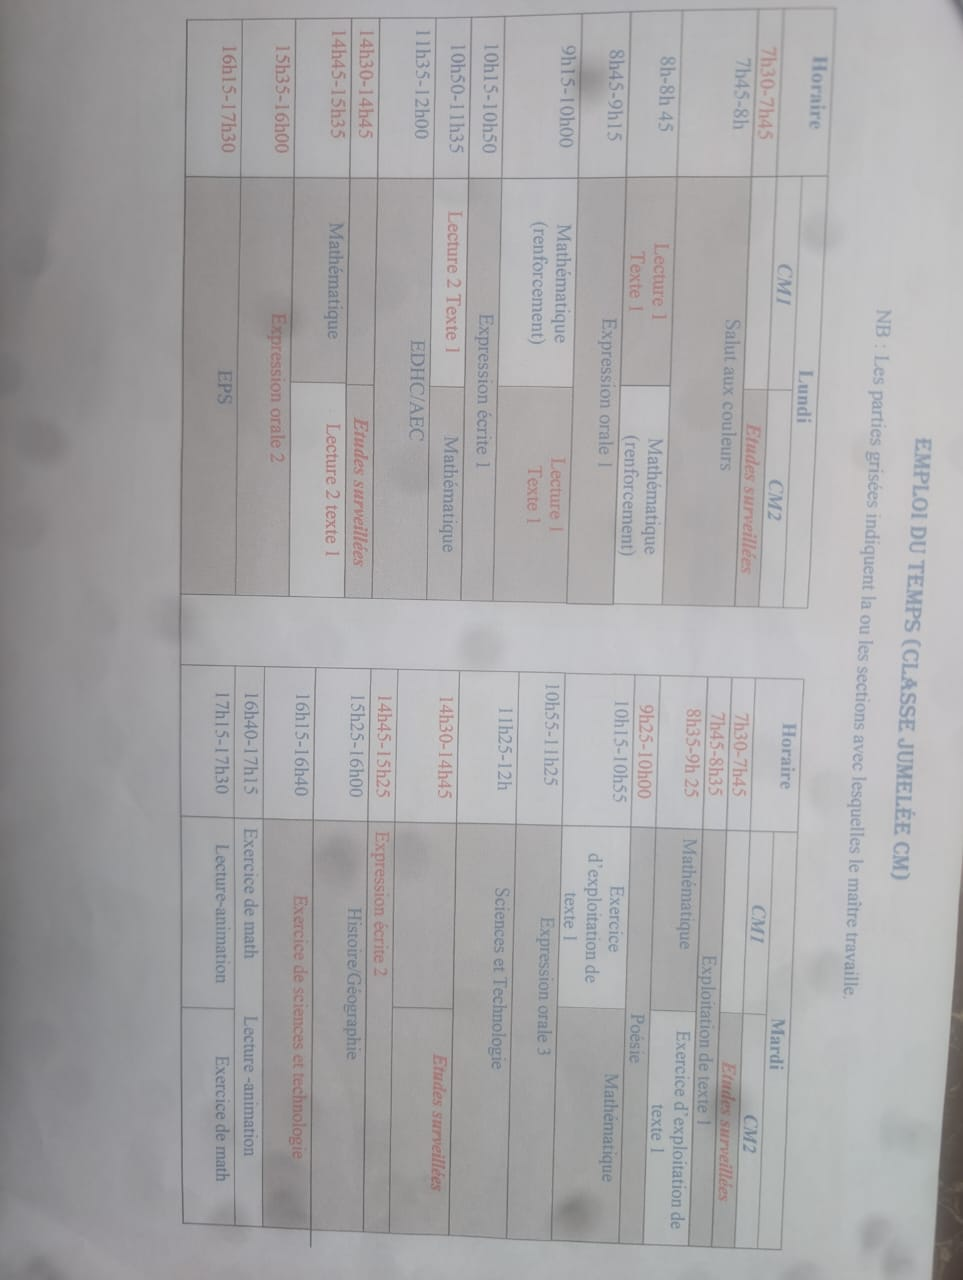
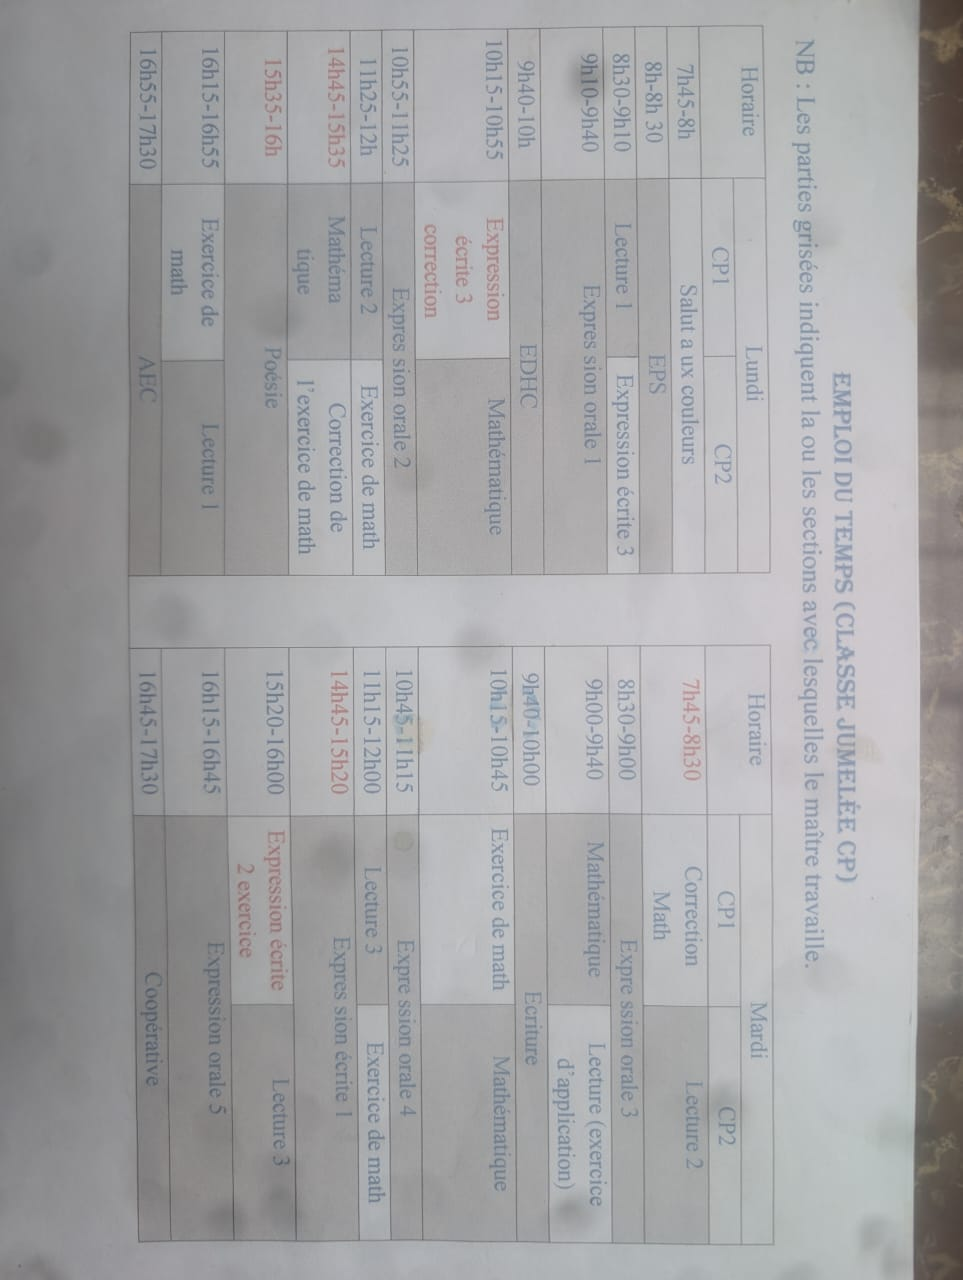
LOTS OF WORKS spé.techs et implémentations commit at wworking day with Yanis

diff --git a/TODOs/appointments_management.md b/TODOs/appointments_management.md
@@ -1,0 +1,91 @@
+# Spécification Technique : Gestion des Rendez-vous et Convocations Parent-Professeur
+
+## 1. Objectifs de la Fonctionnalité
+
+Ce module unifie deux besoins fondamentaux de communication bilatérale au sein de l'école :
+1. **Demande de rendez-vous (Parent → Enseignant) :** Permettre à un parent de solliciter une entrevue avec un professeur en proposant une ou plusieurs dates/heures.
+2. **Convocation / Sollicitation (Enseignant → Parent) :** Permettre à un enseignant de demander une rencontre avec un parent, que ce soit pour une simple demande de rendez-vous de routine ou une convocation (urgente, disciplinaire, suivi).
+
+**Lignes directrices :**
+- L'approche n'est pas basée sur un calendrier de réservation en "clic-rapide" (pas de créneaux pré-définis libres comme Doctolib), mais sur un **système de proposition/acceptation** plus souple.
+- Le format de la rencontre (Visioconférence ou Présentiel) est négociable. Le demandeur peut en imposer un, ou proposer les deux au choix.
+- L'intitulé (statut) de la rencontre est modifiable à la volée pour s'adapter à la gravité ou au but du rendez-vous.
+
+---
+
+## 2. Modèle de Données (Base de Données)
+
+Pour garder l'historique et les spécificités des rencontres privées, un nouveau modèle `Appointment` (distinct de `Event`) doit être créé dans MongoDB (`app/api/_/models/ai/Appointment.js`).
+
+### Schéma `Appointment`
+*   `initiatorId` : String (clerkId de la personne qui initie la demande).
+*   `initiatorRole` : String (`'parent'` ou `'prof'`).
+*   `recipientId` : String (clerkId du destinataire).
+*   `studentId` : ObjectId (Référence à l'élève, indispensable pour contextualiser la rencontre).
+*   `title` : String (Titre ou motif court).
+*   `statusLabel` : String. Définit la nature de l'entrevue (ex: *"Demande de rdv"*, *"Convocation"*, *"Information urgente"*). L'UI proposera des choix par défaut mais permettra la saisie libre.
+*   `meetingStatus` : Enum (`'PENDING'`, `'ACCEPTED'`, `'REJECTED'`, `'CANCELED'`, `'COMPLETED'`). Par défaut `'PENDING'`.
+*   `proposedDates` : Array d'objets `{ startDate, endDate }`. Permet à l'initiateur de proposer un ou plusieurs créneaux.
+*   `agreedDate` : Objet `{ startDate, endDate }` ou `null`. C'est la date finale validée.
+*   `meetingFormatOptions` : Array of Strings (`['PRESENTIAL']`, `['VISIO']`, ou `['PRESENTIAL', 'VISIO']`).
+*   `agreedFormat` : String (`'PRESENTIAL'` ou `'VISIO'`) ou `null`. Format final validé.
+*   `visioRoomName` : String (Nom de la salle Jitsi généré automatiquement si `'VISIO'` est choisi).
+*   `message` : String (Description détaillée ou motif de la demande).
+*   `createdAt`, `updatedAt` : Date.
+
+---
+
+## 3. Interface Utilisateur (UI/UX) et Flux
+
+### A. Phase 1 : Initialisation de la demande
+1. **Accès :** 
+   - Pour un parent : Sur la page de profil du professeur ou dans la section équipe pédagogique de la classe, bouton **"Demander un RDV"**.
+   - Pour un prof : Sur la page profil de l'élève ou l'annuaire parent, bouton **"Solliciter un RDV / Convoquer"**.
+2. **Le Formulaire (Modal) :**
+   - **Type de demande (statusLabel) :** Menu déroulant (Demande, Convocation...) avec champ texte "Autre" pour saisie libre.
+   - **Date(s) proposée(s) :** Sélecteur de date/heure (possibilité d'ajouter plusieurs choix `+ Ajouter une alternative`).
+   - **Format proposé :** Cases à cocher pour "Présentiel", "Visio" (ou les deux cochés si on laisse le choix).
+   - **Motif / Message :** Zone de texte libre.
+
+### B. Phase 2 : Réception et Négociation/Validation
+1. Le destinataire reçoit une notification sur son Dashboard (et potentiellement Mail/SMS).
+2. En cliquant sur la notification, une carte de rendez-vous en attente s'affiche.
+3. **Actions possibles :**
+   - Si plusieurs dates/formats étaient proposés, le destinataire DOIT sélectionner un choix avant de cliquer sur **"Accepter"**.
+   - Si une seule date/format était proposé, il clique simplement sur **"Accepter"**.
+   - Il peut aussi cliquer sur **"Refuser"** (avec possibilité de laisser un message d'annulation).
+4. Lors de l'acceptation :
+   - `meetingStatus` passe à `'ACCEPTED'`.
+   - `agreedDate` et `agreedFormat` sont renseignés.
+   - Si `VISIO`, `visioRoomName` est généré.
+
+### C. Phase 3 : Finalisation et Tenue du Rendez-vous
+1. **Intégration Emploi du Temps :** Le rendez-vous accepté s'insère dynamiquement dans le composant d'Emploi du temps agrégé de l'enseignant (Spécification *Teacher Schedule*).
+2. **Module Visio :** À l'heure prévue, si le format est `VISIO`, un bouton "Rejoindre la visio" apparaît sur la carte du rendez-vous, s'appuyant sur l'infrastructure Jitsi/Cloudinary définie dans la spécification *Visioconférence*.
+
+---
+
+## 4. Système de Notifications
+*   **Tableau de bord (In-App) :** Présence d'un badge (ex: cloche) ou section dédiée sur la page d'accueil pour lister les "Demandes en attente" et "Prochains Rendez-vous".
+*   **Alerte Externe :** Option d'envoi d'un **SMS** ou **Email** selon les préférences du destinataire pour l'avertir d'une nouvelle demande, confirmation, ou annulation. Utile surtout pour les *"Convocations urgentes"*.
+
+---
+
+## 5. Étapes d'Implémentation Recommandées
+
+1. **Backend / Base de Données :**
+   - Créer le modèle MongoDB `Appointment`.
+   - Développer les routes API CRUD sous `/api/appointments/`.
+     - `POST` pour la création initiale (`PENDING`).
+     - `GET` pour récupérer la liste des requêtes envoyées/reçues par l'utilisateur connecté.
+     - `PATCH` pour l'acceptation (choix final de la date/format) ou le refus.
+
+2. **Frontend - Formulaire de Création :**
+   - Créer le composant React (ex: `AppointmentRequestModal`) gérant l'UX asynchrone (label personnalisé, gestion des dates multiples, formats).
+
+3. **Frontend - Centre de Gestion des RDVs :**
+   - Créer un widget ou onglet pour le Dashboard (Parents et Profs) affichant les cartes `AppointmentCard` avec les états (En attente de réponse, Confirmé, Refusé).
+
+4. **Intégration Transversale :**
+   - Relier la route de récupération de l'emploi du temps enseignant (`GET /api/schedules/teacher/:profId`) à la collection `Appointment` pour afficher les RDVs confirmés de la journée.
+   - Relier le bouton de visio au module global d'appels vidéo.

diff --git a/TODOs/school_blog.md b/TODOs/school_blog.md
@@ -1,0 +1,94 @@
+# Spécification Technique : Blog de l'École (Journal Scolaire)
+
+## 1. Objectifs de la Fonctionnalité
+
+L'objectif est de doter l'école d'un véritable journal scolaire numérique. Contrairement au flux d'actualité ("Unified Feed" de la page d'accueil et des groupes) qui est axé sur de la communication descendante et brève (micro-blogging, annonces, sondages), le **Blog de l'École** est axé sur la **création de contenu riche**.
+
+Ses particularités :
+- **Ouverture totale :** TOUS les acteurs de l'école (élèves, parents, professeurs, administration) peuvent créer et soumettre des articles.
+- **Format Éditorial :** Textes longs, mise en page riche (gras, puces, liens), images de couverture, tags.
+- **Sécurité et Modération :** Pour prévenir tout contenu inapproprié ou fautes d'orthographe majeures sur un espace public, le contenu produit par les élèves et les parents est soumis à un processus de validation (modération) avant publication.
+
+---
+
+## 2. Modèle de Données (Base de Données)
+
+Création d'un nouveau modèle MongoDB `Article` (ex: `app/api/_/models/ai/Article.js`), totalement distinct du modèle `Post`.
+
+### Schéma `Article`
+*   `title` : String (Titre principal de l'article).
+*   `content` : String (Contenu de l'article, stocké en HTML ou Markdown).
+*   `coverImage` : String (URL Cloudinary optionnelle de l'image de couverture).
+*   `authorId` : String (clerkId de l'auteur).
+*   `authorName` : String.
+*   `authorRole` : String (`'admin'`, `'prof'`, `'eleve'`, `'parent'`). Permet d'afficher un badge à côté du nom.
+*   `status` : Enum (`'DRAFT'`, `'PENDING_REVIEW'`, `'PUBLISHED'`, `'REJECTED'`). 
+*   `tags` : Array of Strings (Catégories : ex: *"Sortie scolaire"*, *"Science"*, *"Opinion"*).
+*   `publishedAt` : Date (Date de parution effective, null si non publié).
+*   `createdAt`, `updatedAt` : Date.
+
+---
+
+## 3. Workflow de Publication et Modération
+
+Pour garantir la qualité et la sécurité du contenu affiché à toute l'école :
+
+1. **Création par un Professeur ou Administrateur :**
+   - Peut sauvegarder en brouillon (`DRAFT`).
+   - Peut publier directement sans validation (`PUBLISHED`).
+
+2. **Création par un Élève ou un Parent :**
+   - Peut sauvegarder en brouillon (`DRAFT`).
+   - S'il clique sur "Soumettre", l'article passe en `PENDING_REVIEW`. Il n'est pas encore visible sur le blog public.
+   - Les professeurs et administrateurs reçoivent une notification / voient un badge "Articles à valider".
+
+3. **La Modération (Interface Staff) :**
+   - Un enseignant/admin lit l'article en attente.
+   - Il a 3 options :
+     - **Approuver :** Le statut passe à `PUBLISHED`.
+     - **Modifier :** Le modérateur peut corriger de petites fautes d'orthographe directement, puis publier.
+     - **Rejeter :** Le statut passe à `REJECTED` (avec un champ de commentaire optionnel pour expliquer le refus).
+   - Lors de la publication ou du rejet, l'auteur original reçoit une notification.
+
+---
+
+## 4. Interface Utilisateur (UI/UX)
+
+### A. Le Portail du Blog (`/blog`)
+- **Affichage :** Grille type "Masonry" ou liste de cartes (Cards).
+- **Cartes d'article :** Affichage de l'image de couverture en haut, du titre, d'un résumé (truncate text), des tags, et du badge de l'auteur (ex: 🎓 Élève: *Jean Dupont*).
+- **Navigation :** Barre de filtres en haut (filtrer par tags, par rôle d'auteur, barre de recherche textuelle).
+- **Action principale :** Un gros bouton "✍ Rédiger un article" flottant ou bien visible.
+
+### B. L'Éditeur d'Article (`/blog/edit/[id]`)
+- Utilisation d'un éditeur "Rich Text" simple (ex: *React Quill*, *TipTap*, ou un éditeur Markdown avec prévisualisation) pour permettre le formatage (Gras, Listes, Citations).
+- Un module d'upload Cloudinary spécifique pour uploader l'image de couverture `coverImage`.
+- Boutons d'action selon les permissions : "Sauvegarder Brouillon" et "Soumettre pour relecture" (ou "Publier").
+
+### C. La Vue Lecture (`/blog/[id]`)
+- Page épurée, focus sur la lecture.
+- En-tête large (Hero banner) avec l'image de couverture.
+- Boutons de partage interne ou de "J'aime" (optionnel en V2).
+
+### D. Le Tableau de Bord "Mes Articles" et "Modération"
+- **Auteurs :** Un onglet "Mes publications" pour voir ses brouillons, articles publiés, ou articles refusés.
+- **Staff (Profs/Admins) :** Une file d'attente (Queue) de modération pour lister les articles en `PENDING_REVIEW`.
+
+---
+
+## 5. Étapes d'Implémentation Recommandées
+
+1. **Modèles & API :**
+   - Câbler le modèle `Article`.
+   - Développer les routes `GET /api/articles` (avec filtre public pour tout le monde, et filtre `status` pour les admins).
+   - Développer les routes `POST` et `PATCH` gérant le cycle de vie de la modération.
+
+2. **Composant d'Édition Riche :**
+   - Intégrer la librairie de texte riche de votre choix dans le formulaire de création d'article.
+   - Assurer le lien avec l'API Cloudinary pour l'image de mise en avant.
+
+3. **Pages Publiques :**
+   - Développer le listing `/blog` et la page de détail `/blog/[id]`.
+
+4. **Module de Modération (Admin/Prof) :**
+   - Créer le tableau de modération, accessible via le menu d'administration ou le dashboard enseignant.

diff --git a/TODOs/direct_messaging.md b/TODOs/direct_messaging.md
@@ -1,0 +1,68 @@
+# Spécification Technique : Messagerie Directe (Parent/Prof & Élève/Prof)
+
+## 1. Objectifs de la Fonctionnalité
+
+Mettre en place un système de messagerie privée (1-to-1) respectant la séparation stricte des canaux de communication au sein de l'école (référence : Spécification *Roles and Accounts*) :
+- **Canal Pédagogique (Élève ↔ Prof) :** Espace d'échange privé favorisant l'autonomie de l'élève (questions sur les devoirs, etc.). Les parents n'ont pas d'accès direct à ce fil de discussion pour préserver le dialogue élève-enseignant.
+- **Canal Administratif et Suivi (Parent ↔ Prof) :** Canal officiel de communication entre la famille et l'équipe pédagogique.
+
+---
+
+## 2. Modèle de Données (Base de Données)
+
+### A. Modèle `Conversation` (`app/api/_/models/ai/Conversation.js`)
+Ce modèle représente le "salon" de discussion.
+*   `participants`: Array of Strings (clerkIds des deux utilisateurs impliqués).
+*   `conversationType`: Enum (`'STUDENT_TEACHER'`, `'PARENT_TEACHER'`). *C'est le champ clé pour assurer la séparation des vues.*
+*   `studentRef`: ObjectId (Référence à l'élève, indispensable pour savoir "de quel élève on parle", particulièrement crucial dans une discussion Parent-Prof).
+*   `lastMessage`: ObjectId (Référence au dernier message envoyé, utile pour trier la boîte de réception du professeur).
+*   `updatedAt`: Date (Pour trier chronologiquement les discussions actives).
+
+### B. Modèle `Message` (`app/api/_/models/ai/Message.js`)
+*   `conversationId`: ObjectId.
+*   `senderId`: String (clerkId de l'expéditeur).
+*   `content`: String (Le texte du message).
+*   `readBy`: Array of Strings (clerkIds des utilisateurs ayant lu le message. Utile pour les accusés de réception).
+*   `createdAt`: Date.
+
+---
+
+## 3. Sécurité et Règles d'Accès (Backend)
+
+La confidentialité repose sur des contrôles stricts côté API (Middlewares) :
+*   **Lecture de la liste des conversations (`GET /api/conversations`) :** 
+    - Le serveur ne renvoie que les conversations où le `clerkId` du demandeur figure dans `participants`.
+*   **Lecture des messages d'une conversation (`GET /api/conversations/:id/messages`) :** 
+    - Le serveur vérifie que l'utilisateur est bien dans les `participants`. Sinon, erreur `403 Forbidden`. Il est donc techniquement impossible pour un parent "hackant" l'URL d'aller lire le `STUDENT_TEACHER` chat de son enfant.
+
+---
+
+## 4. Interface Utilisateur (UI/UX)
+
+### A. Vue Élève (`role: 'eleve'`)
+*   **Emplacement :** Sur sa page de profil d'élève (`/eleves/[id]`).
+*   **Interface :** Un composant de Chat ("bulle" type Messenger ou panneau latéral) lui permettant d'initier ou poursuivre une discussion avec ses enseignants actuels.
+
+### B. Vue Parent (`role: 'parent'`)
+*   **Emplacement :** Une section ou widget pleine page "Messagerie" sur la page d'accueil (Dashboard Parent).
+*   **Interface :** Permet de démarrer une discussion avec le professeur principal (ou les professeurs associés) des enfants listés dans son objet `childrenRefs`.
+
+### C. Vue Professeur / Admin (La Boîte de Réception - "Inbox")
+*   **Emplacement :** Nouvelle route dédiée `/enseignants/messages`.
+*   **Structure de la page :** Interface type *WhatsApp Web*.
+    - **Panneau latéral (Sidebar) :** Liste de toutes les conversations actives triées de la plus récente à la plus ancienne. **Un filtre / système d'onglets ("Parents" / "Élèves")** permet au professeur de s'y retrouver facilement.
+    - **Panneau principal :** Affichage de la bulle de chat complète pour la conversation sélectionnée, avec le champ de saisie du message.
+
+---
+
+## 5. Étapes d'Implémentation Recommandées
+
+1. **Création des Modèles MongoDB :** `Conversation.js` et `Message.js`.
+2. **Développement des endpoints API CRUD :**
+   - Lancement d'une conversation (`POST`).
+   - Récupération des historiques (`GET`).
+   - Mise à jour du statut de lecture (`PATCH`).
+3. **Création du composant UI central `ChatWindow` :** Un composant React robuste, gérant le scroll automatique, l'affichage des bulles de messages (droite/gauche selon sender), et le champ d'input.
+4. **Intégration distribuée :** Insérer `ChatWindow` sur la page Élève et le Dashboard Parent.
+5. **Développement de l'Inbox Professeur :** Créer la vue complexe avec Sidebar et filtrage des types de conversations.
+6. **(Optionnel MVP / V2) Temps Réel :** Ajouter un système de rafraîchissement (SWR polling toutes les X secondes) ou des WebSockets (via Pusher ou socket.io) pour une expérience instantanée.

diff --git a/TODOs/roles_and_accounts.md b/TODOs/roles_and_accounts.md
@@ -1,0 +1,60 @@
+# Spécification Technique : Gestion des Comptes (Parents & Élèves) et Rôles Utilisateurs
+
+## 1. Objectifs de la Fonctionnalité
+
+L'objectif est de structurer précisément comment les familles s'authentifient sur l'application, en définissant des accès différenciés entre un parent et un élève, le tout sans alourdir la base de données avec de nouvelles collections redondantes (comme une collection `Parents`).
+
+**Principes clés :**
+- **Simplicité pour les familles (Fratrie) :** Un parent utilisant son adresse email pour s'inscrire verra automatiquement tous ses enfants rattachés à son compte (via une correspondance d'email).
+- **Autonomie de l'élève :** Si un élève (collège, fin de primaire) possède son propre contact, il peut avoir son propre espace, totalement indépendant du compte parent, favorisant sa responsabilité.
+- **Automatisation :** Le rôle de l'utilisateur (`parent` ou `eleve`) et ses permissions sont déterminés automatiquement lors de son inscription/connexion via le Webhook Clerk.
+
+---
+
+## 2. Modèle de Données (Base de Données)
+
+L'architecture s'appuie sur une évolution des modèles existants.
+
+### A. Évolution du Modèle `Eleve` (`app/api/_/models/ai/Eleve.js`)
+L'élève centralise les clés de correspondance (emails) :
+1. **Emails des Parents :** Le champ existant `parents: { mere: "", pere: "", phone: "" }` (Ligne 19) doit être enrichi en ajoutant le sous-champ `email: ""`. 
+   *Exemple : `parents: { mere: "", pere: "", phone: "", email: "" }`*
+2. **Contact propre de l'Élève :** Ajout des champs à la racine du modèle pour gérer l'élève autonome.
+   * `studentEmail: { type: String, default: "" }`
+   * `studentPhone: { type: String, default: "" }`
+
+### B. Évolution du Modèle `User` (`app/api/_/models/ai/User.js`)
+Le modèle Utilisateur est adapté pour gérer nativement les parents :
+1. **Nouveau Rôle :** L'énumération du champ `role` est mise à jour : `['admin', 'prof', 'eleve', 'parent', 'public']`.
+2. **Liaison des enfants :** Dans le sous-objet `roleData`, on ajoute un tableau de références :
+   * `childrenRefs: [{ type: Schema.Types.ObjectId, ref: 'ai_Eleves_Ecole_St_Martin' }]`
+
+---
+
+## 3. Logique d'Authentification (Webhook Clerk)
+
+Le fichier `app/api/webhooks/clerk/route.js` centralise l'intelligence de la distribution des rôles. La fonction `determineUserRole(email)` suivra cet algorithme strict :
+
+1. **Vérification Admin :** L'email figure dans la variable d'environnement Admin ? ➡ Rôle `admin`.
+2. **Vérification Professeur :** L'email est trouvé dans la collection `Teacher` ? ➡ Rôle `prof` avec `teacherRef`.
+3. **Vérification Élève (Compte autonome) :** L'email correspond-il au champ `studentEmail` d'un document `Eleve` ? 
+   ➡ Rôle `eleve`, et `roleData.eleveRef` est assigné.
+4. **Vérification Parent (Compte famille) :** L'email correspond-il au champ `parents.email` de documents `Eleve` ?
+   - L'API effectue un `find` pour récupérer **TOUS** les élèves ayant cet email parent (gérant ainsi naturellement les fratries).
+   - ➡ Rôle `parent`. Les IDs des élèves trouvés sont injectés dans `roleData.childrenRefs`.
+5. **Défaut :** ➡ Rôle `public`.
+
+---
+
+## 4. Impact Interface et Redirection (UI)
+
+*   **Pour le Parent (`role: 'parent'`) :** À la connexion, il arrive sur un tableau de bord listant la fratrie. Il accède aux communications officielles, factures, et suivi global.
+*   **Pour l'Élève (`role: 'eleve'`) :** À la connexion, il arrive sur son espace de travail (Devoirs, Jeux pédagogiques, Communication directe avec le prof).
+
+---
+
+## 5. Étapes d'Implémentation Recommandées
+
+1. **Mise à jour des Modèles :** Modifier `Eleve.js` (ajout `email` dans `parents` et `studentEmail`) et `User.js` (rôle parent et `childrenRefs`).
+2. **Mise à jour du Webhook :** Refactoriser `route.js` pour intégrer la nouvelle logique de détection et la gestion des correspondances multiples (fratrie).
+3. **Interface Utilisateur :** Adapter le composant `RoleIndicator` et les `PermissionGate` dans le Frontend pour reconnaître et gérer l'affichage spécifique du rôle `parent`.

diff --git a/TODOs/TODO.md b/TODOs/TODO.md
@@ -27,12 +27,12 @@ Cette liste regroupe et catégorise les tâches définies dans le projet.
 - [ ] Prendre rendez-vous avec un prof sur son agenda.
 - [ ] Permettre à un prof de convoquer un parent.
 - [ ] Créer une page blog de l'école où les élèves, parents, profs et admins peuvent créer un article.
-- [ ] Messagerie / Communication : si l'élève et le parent ne partagent pas le même compte, l'élève peut directement voir ses communications avec son prof. Sinon, l'ajouter comme sous-section de la page d'accueil.
+- [ ] Messagerie / Communication : si l'élève et le parent ne partagent pas le même compte, l'élève peut directement voir ses communications avec son prof sur la page de son profil d'élève (le parent ne pourra pas voir ces communications). Sinon, les communications entre les parent et les prof seront ajoutées dans une sous-section de la page d'accueil.
 
 ## 👁 Vues et Interfaces (UI/UX)
 - [ ] La page qui s'affiche pour un parent ou un élève connecté doit inclure les vues élèves/profs/classes mais avec beaucoup plus de restrictions dans les infos affichées (ou avoir une section spéciale en en-tête pour regrouper les actions utiles selon le rôle).
-- [ ] Concevoir une interface dédiée pour le parent d'élève et une version plus spécifique dédiée à l'élève.
 - [ ] Rajouter la fonction de création du compte de l'élève directement dans la page d'un élève.
+- [ ] Concevoir une interface dédiée pour le parent d'élève et une version plus spécifique dédiée à l'élève.
 
 ## ⚙ Administration et Système
 - [ ] Créer la fonctionnalité de création d'école en bac à sable (vivant temporairement dans le local session).
